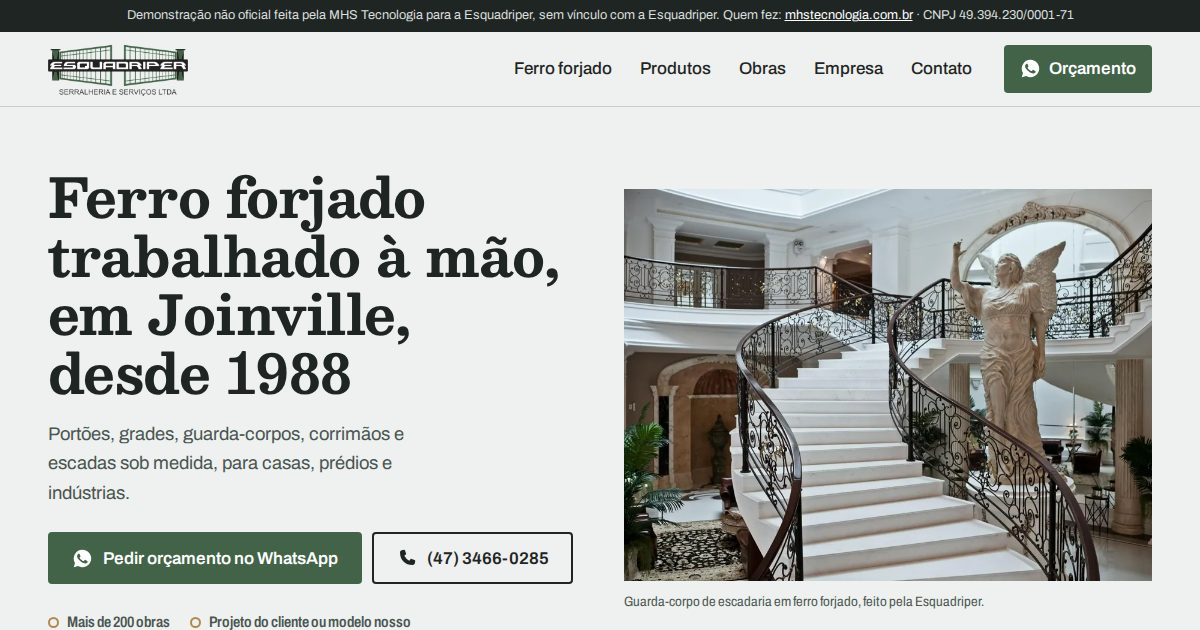
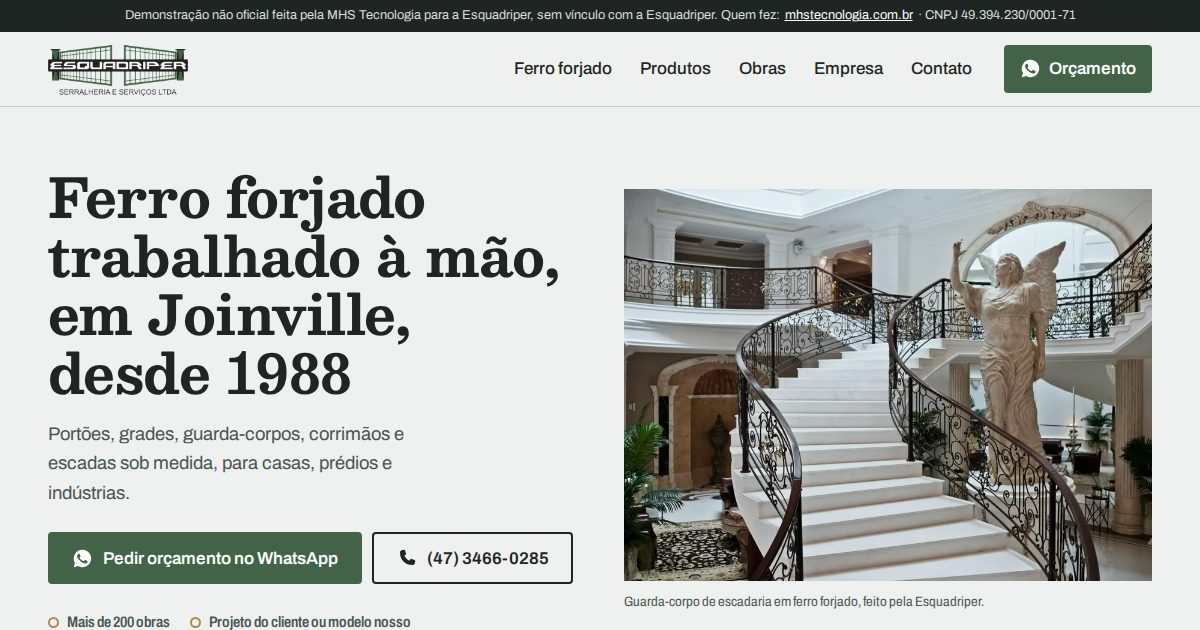
Previews: 90 ativos

Changed region(s): [[0.0925, 0.0, 0.6475, 0.0302], [0.7708, 0.0, 0.8942, 0.0302]]

diff --git a/esquadriper-joinville-sc/index.html b/esquadriper-joinville-sc/index.html
@@ -95,11 +95,11 @@
 
 <section class="secao faixa" aria-labelledby="t-difs">
   <div class="caixa">
-    <div class="secao-t"><div><h2 id="t-difs">Do desenho à instalação</h2><p>A Esquadriper fabrica e instala: o mesmo time cuida da peça do começo ao fim.</p></div></div>
+    <div class="secao-t"><div><h2 id="t-difs">Do desenho à entrega</h2><p>A Esquadriper cuida da peça do começo ao fim.</p></div></div>
     <ol class="etapas">
       <li><h3>Projeto</h3><p>Um dos nossos modelos ou o projeto do cliente, com desenho exclusivo e sob medida.</p></li>
       <li><h3>Fabricação</h3><p>Ferro forjado trabalhado à mão, curva por curva. Ferro, inox, alumínio e aço, só material de primeira.</p></li>
-      <li><h3>Instalação</h3><p>Na obra, no prazo combinado.</p></li>
+      <li><h3>Entrega</h3><p>Pontualidade na entrega: o prazo combinado é cumprido.</p></li>
       <li><h3>Pós-venda</h3><p>O serviço não termina na entrega: suporte e assistência depois.</p></li>
     </ol>
   </div>

diff --git a/esquadriper-joinville-sc/estilo.css b/esquadriper-joinville-sc/estilo.css
@@ -33,7 +33,7 @@ p{margin:0}
 
 /* aviso da demo */
 .aviso{background:var(--ferro);color:#d9dfdc;font-size:.8rem;line-height:1.4;padding:7px var(--g);text-align:center}
-.aviso a{color:#fff}
+.aviso a{color:#fff;display:inline-block;padding:6px 2px;margin:-6px 0}
 .nq{white-space:nowrap}
 .md{display:none}
 
@@ -68,7 +68,7 @@ p{margin:0}
 .escuro .btn-2{color:#fff;border-color:#fff}
 .escuro .btn-2:hover{background:#fff;color:var(--ferro)}
 .ico{width:21px;height:21px;flex:none}
-.link{font-weight:600;color:var(--verde);text-underline-offset:4px}
+.link{font-weight:600;color:var(--verde);text-underline-offset:4px;display:inline-flex;align-items:center;min-height:44px}
 .escuro .link{color:var(--bronze-claro)}
 
 /* hero */
